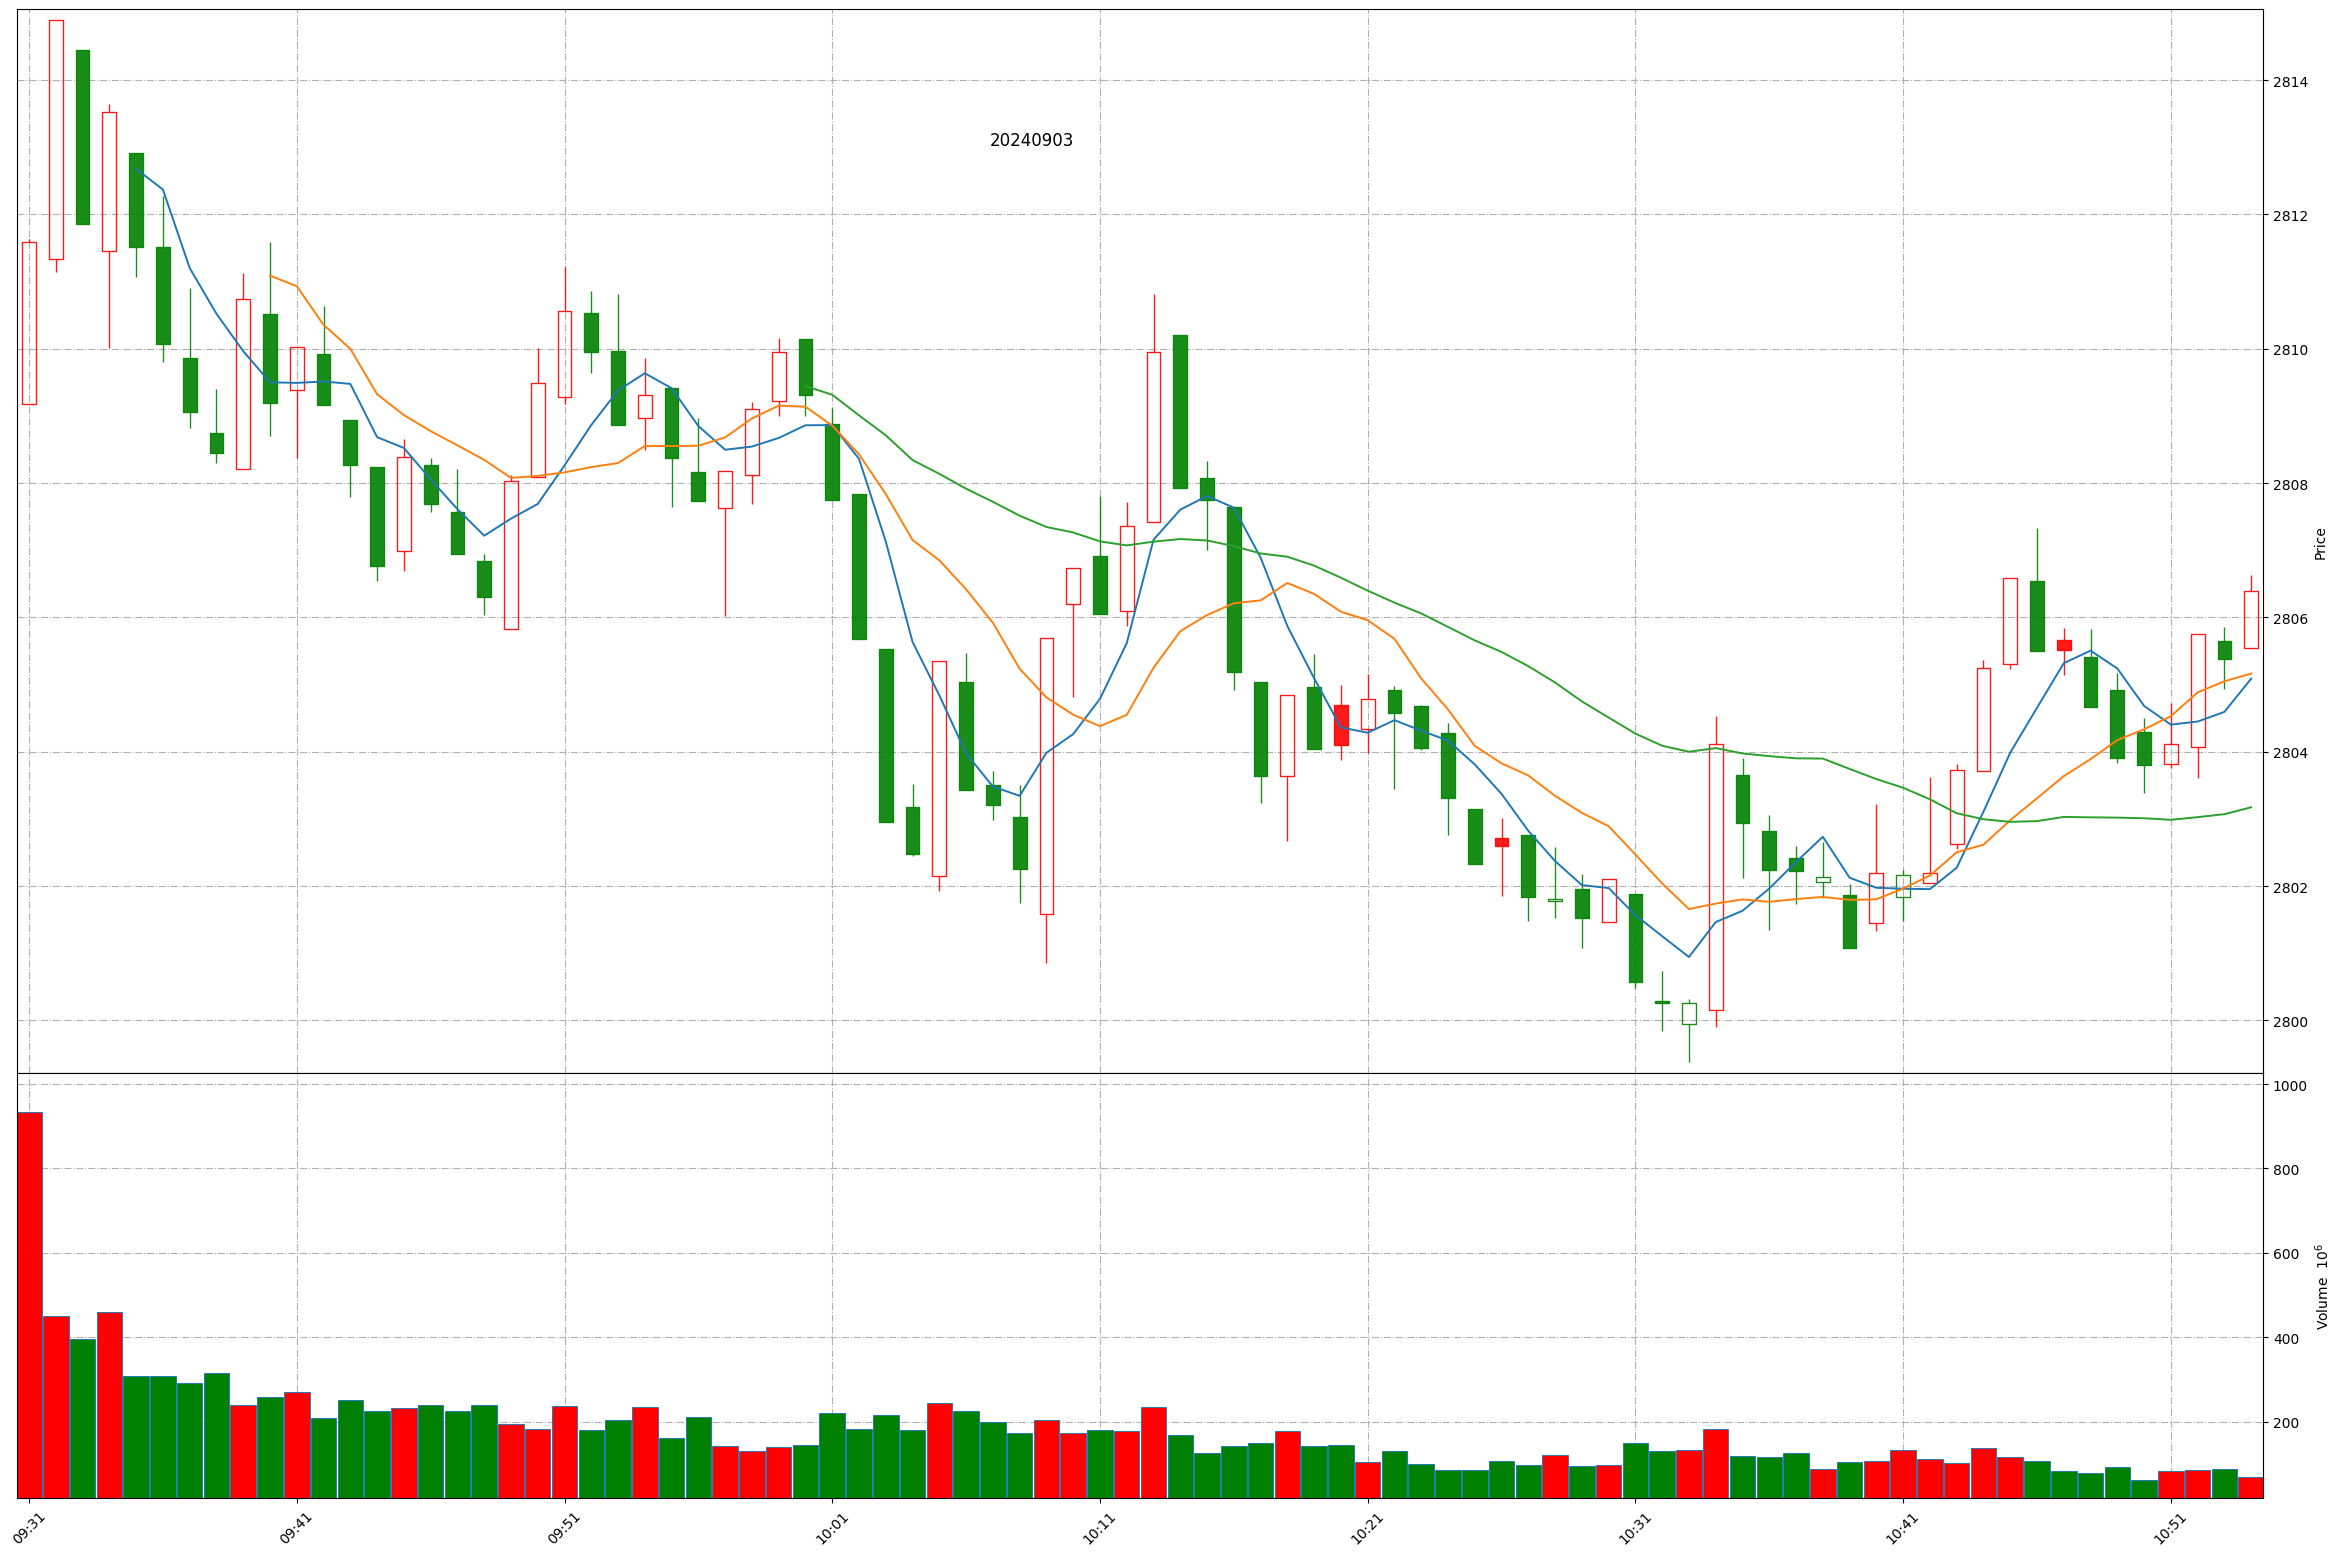
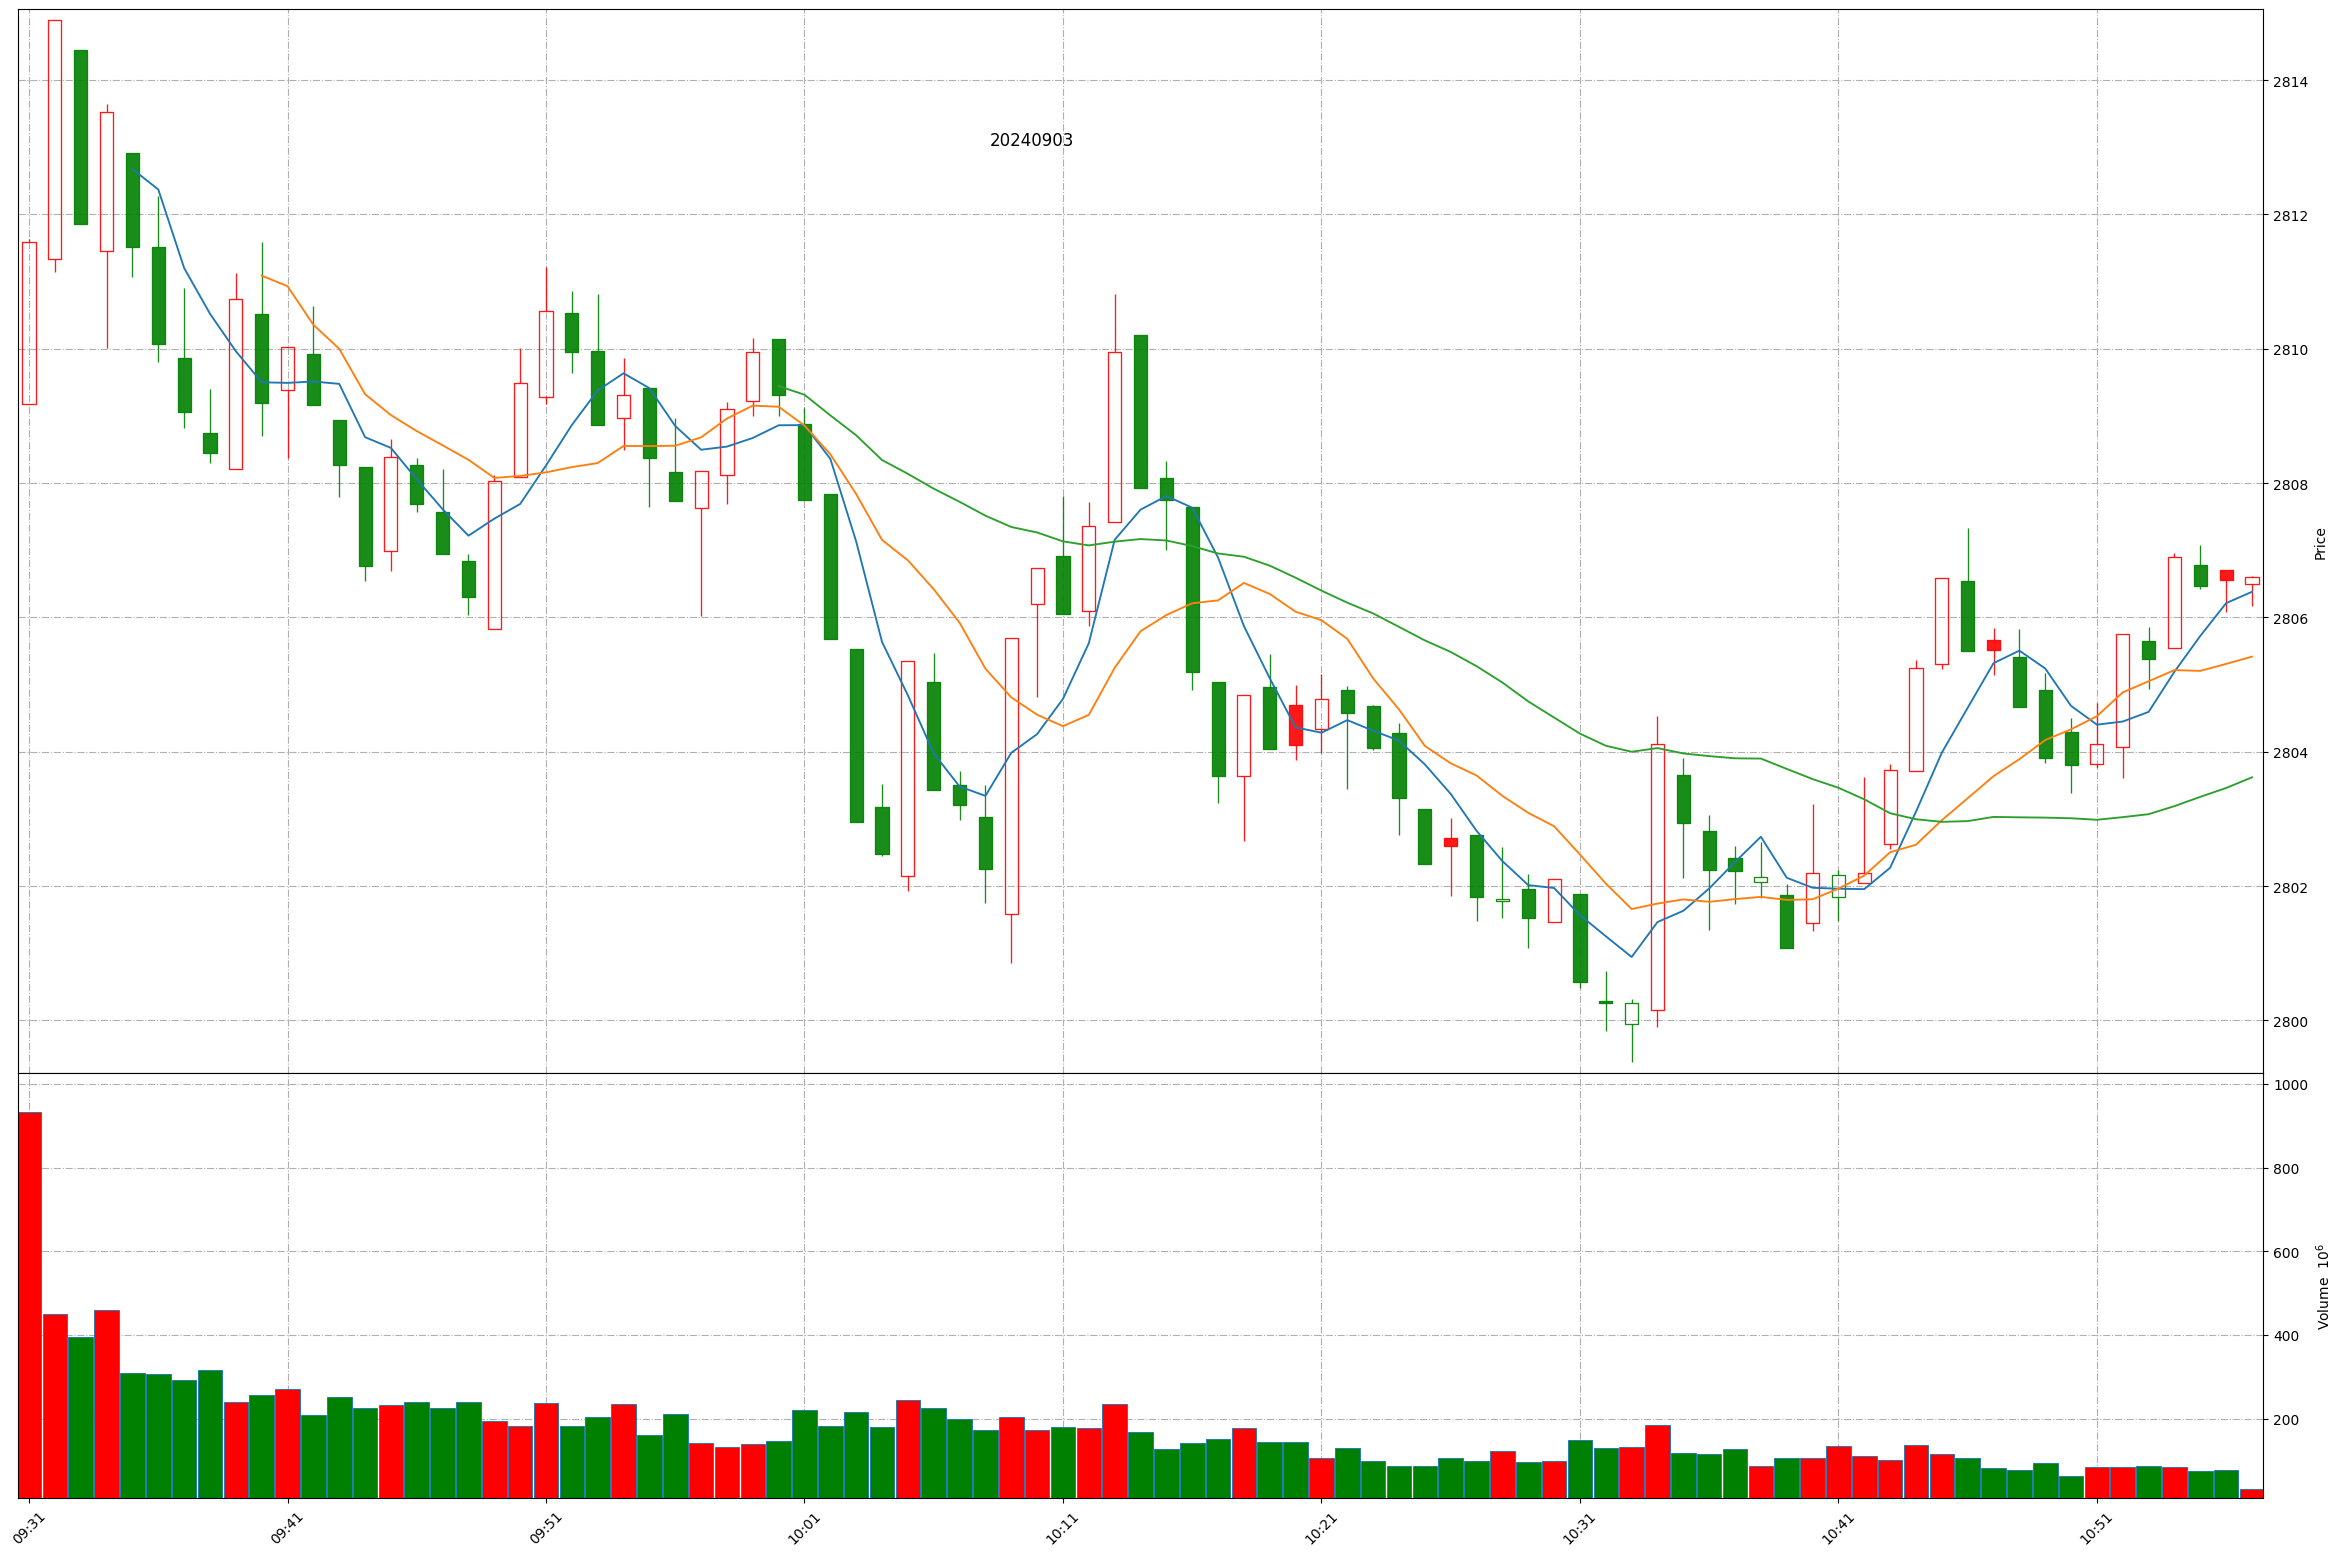
Github action update at 2024-09-03 10:56:47.

Changed region(s): [[0.0, 0.0308, 0.9663, 0.6787], [0.0, 0.8329, 0.9663, 0.9871], [0.4052, 0.3085, 0.4364, 0.3393]]

diff --git a/README.md b/README.md
@@ -1,11 +1,11 @@
 
 # Daily-A-share-market-quotes 每日 A 股指数（5min 更新）- 20240903
 
-### 上证指数 20240903 10:54
+### 上证指数 20240903 10:56
 ![](./fig/2024/9/20240903-sh000001.png)
 
-### 深证成指 20240903 10:54
+### 深证成指 20240903 10:56
 ![](./fig/2024/9/20240903-sz399001.png)
 
-### 北证50 20240903 10:54
+### 北证50 20240903 10:56
 ![](./fig/2024/9/20240903-bj899050.png)
